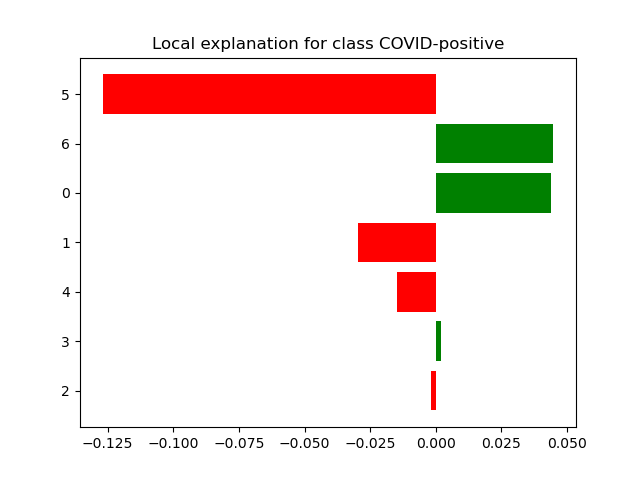
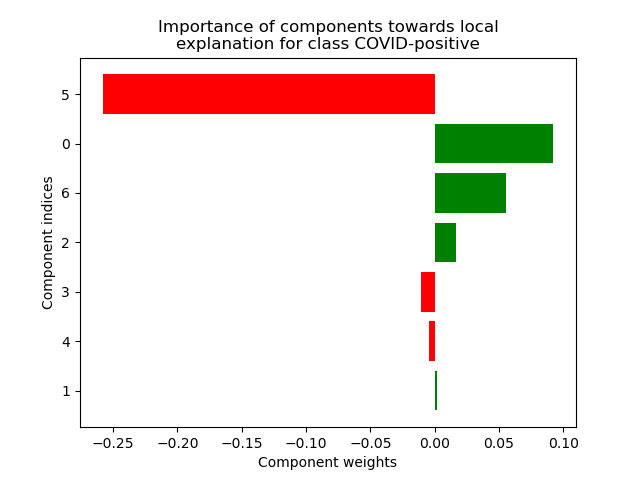
weighted spectral decomp

diff --git a/lime_cough.py b/lime_cough.py
@@ -38,6 +38,15 @@ class CoughExplanation(object):
 
     def get_exp_components(self, label, positive_components=True, negative_components=True, num_components='all',
                               min_abs_weight=0.0, return_indeces=False):
+        """
+        :param label:
+        :param positive_components:
+        :param negative_components:
+        :param num_components:
+        :param min_abs_weight:
+        :param return_indeces:
+        :return: audio that is made of the most important num_components for the explanation
+        """
         if label not in self.local_exp:
             raise KeyError('Label not in explanation')
         if positive_components is False and negative_components is False:
@@ -73,26 +82,63 @@ class CoughExplanation(object):
             return audio, used_features
         return audio
 
-    def show_image_mask_spectrogram(self, label, positive_only=True, negative_only=False, hide_rest=True, num_features=5, min_weight=0., save_path=None):
-        """Init function.
+    def weighted_audio(self, label, positive_components=True, negative_components=False, num_components='all',
+                            min_abs_weight=0.0, return_indeces=False):
+        # returns weighted audio (weighted by abs value of components)
+        if label not in self.local_exp:
+            raise KeyError('Label not in explanation')
+        if positive_components is False and negative_components is False:
+            raise ValueError('positive_components, negative_components or both must be True')
 
+        exp = self.local_exp[label]
+
+        w = [[x[0], x[1]] for x in exp]
+        used_features, weights = np.array(w, dtype=int)[:, 0], np.array(w)[:, 1] # used features is array of components, with array of weights of same length
+
+        if not negative_components:
+            pos_weights = np.argwhere(weights > 0)[:, 0]
+            used_features = used_features[pos_weights]
+            weights = weights[pos_weights]
+        elif not positive_components:
+            neg_weights = np.argwhere(weights < 0)[:, 0]
+            used_features = used_features[neg_weights]
+            weights = weights[neg_weights]
+        if min_abs_weight != 0.0:
+            abs_weights = np.argwhere(abs(weights) >= min_abs_weight)[:, 0]
+            used_features = used_features[abs_weights]
+            weights = weights[abs_weights]
+
+        if num_components == 'all':
+            num_components = len(used_features)
+        else:
+            assert(isinstance(num_components, int))
+            # max_components = used_features[:num_components]
+
+        used_features = used_features[:num_components]
+        weights = weights[:num_components]
+        audio = self.segmentation.return_weighted_segments(used_features, weights)
+        if return_indeces:
+            return audio, used_features
+        return audio
+
+
+    def show_image_mask_spectrogram(self, label, positive_only=True, negative_only=False, hide_rest=True, num_features=5, min_weight=0., save_path=None):
+        """
+        This only works for spectral decomposition!
+        # TODO: implement check if spectral decomposition is selected (probably via self.factorization.argument)
         Args:
             label: label to explain
-            positive_only: if True, only take superpixels that positively contribute to
+            positive_only: if True, only take components that positively contribute to
                 the prediction of the label.
-            negative_only: if True, only take superpixels that negatively contribute to
+            negative_only: if True, only take components that negatively contribute to
                 the prediction of the label. If false, and so is positive_only, then both
-                negativey and positively contributions will be taken.
+                negative and positive contributions will be taken.
                 Both can't be True at the same time
             hide_rest: if True, make the non-explanation part of the return
                 image gray
-            num_features: number of superpixels to include in explanation
+            num_features: number of components to include in explanation
             min_weight: minimum weight of the superpixels to include in explanation
-
-        Returns:
-            (image, mask), where image is a 3d numpy array and mask is a 2d
-            numpy array that can be used with
-            skimage.segmentation.mark_boundaries
+            save_path: path under which to save the obtained image for the explanation
         """
         if label not in self.local_exp:
             raise KeyError('Label not in explanation')
@@ -146,16 +192,19 @@ class CoughExplanation(object):
             image_array[:, :, 2] = mask_negative
             image_array[:, :, 3] = np.abs(mask)
             plt.imshow(image_array, origin="lower", interpolation="nearest", alpha=0.5)
-        plt.axis("off")
-        plt.xlabel("time")
-        plt.title("Most important components for local prediction of class COVID-positive")
+        plt.xlabel("Time")
+        plt.ylabel("Frequency")
+        ax = plt.gca()
+        ax.axes.xaxis.set_ticks([])
+        ax.axes.yaxis.set_ticks([])
+        plt.title("Most important components for local\nprediction of class COVID-positive")
         if save_path is not None:
             plt.savefig(save_path)
         plt.show()
 
     def as_pyplot_figure(self, label=0):
         """Returns the explanation as a pyplot figure.
-
+        this works for any decomposition
         Will throw an error if you don't have matplotlib installed
         Args:
             label: desired label. If you ask for a label for which an
@@ -177,7 +226,9 @@ class CoughExplanation(object):
         pos = np.arange(len(exp)) + .5
         plt.barh(pos, vals, align='center', color=colors)
         plt.yticks(pos, names)
-        title = 'Local explanation for class COVID-positive'
+        title = 'Importance of components towards local\nexplanation for class COVID-positive'
+        plt.xlabel('Component weights')
+        plt.ylabel('Component indices')
         plt.title(title)
         return fig
 

diff --git a/test_lime_cough_spectral.py b/test_lime_cough_spectral.py
@@ -153,23 +153,30 @@ def evaluate_data(components):
 
 def test_single_file():
     start = time.time()
-    audio_path = '/Users/anne/Documents/Uni/Robotics/Masterarbeit/MA_Code/DICOVA/DiCOVA_Train_Val_Data_Release/AUDIO/AtACyGlV_cough.flac'
+    filename = 'cNMOJqng_cough.flac'
+    audio_path = f'/Users/anne/Documents/Uni/Robotics/Masterarbeit/MA_Code/DICOVA/DiCOVA_Train_Val_Data_Release/AUDIO/{filename}'
     predicted_entire = predict_dicova.predict_single_audio(audio_path)
     # TODO: adapt
     audio, fs = librosa.load(audio_path)
     total_components = 7
     explanation, factorization = get_explanation(audio, fs, total_components)
-    filename = 'mel_test1234'
-    save_mix(explanation, 3, filename, factorization, fs, gen_random=False)
-    path_name = f"./quantitative_evaluation/3_components/explanations/{filename[:-5]}_e.wav"
+    new_filename = f'test_{filename}'
+    save_mix(explanation, 1, new_filename, factorization, fs, gen_random=False)
+    save_mix(explanation, 3, new_filename, factorization, fs, gen_random=False)
+    path_name = f"./quantitative_evaluation/3_components/explanations/{new_filename[:-5]}_e.wav"
     prediction_exp = predict_dicova.predict_single_audio(path_name)
     print(predicted_entire)
     print(prediction_exp)
+    weighted_audio = explanation.weighted_audio(0, positive_components=True, negative_components=True, num_components=3)
+    path_name = f"./spectral_tests/{new_filename[:-5]}_3_weighted.wav"
+    soundfile.write(path_name, weighted_audio, fs)
     figure = explanation.as_pyplot_figure()
     figure.show()
     figure.savefig('./explanation_mel.png')
-    explanation.show_image_mask_spectrogram(0, positive_only=True, negative_only=False, hide_rest=True, num_features=5, min_weight=0., save_path='./tests_components/test1_mel.png')
-    explanation.show_image_mask_spectrogram(0, positive_only=False, negative_only=False, hide_rest=False, num_features=5, min_weight=0., save_path='./tests_components/test2_mel.png')
+    # explanation.show_image_mask_spectrogram(0, positive_only=True, negative_only=False, hide_rest=True, num_features=3, min_weight=0., save_path='./tests_components/mel_pos_hide.png')
+    # explanation.show_image_mask_spectrogram(0, positive_only=False, negative_only=False, hide_rest=True, num_features=3, min_weight=0., save_path='./tests_components/mel_both_hide.png')
+    # explanation.show_image_mask_spectrogram(0, positive_only=True, negative_only=False, hide_rest=False, num_features=3, min_weight=0., save_path='./tests_components/mel_pos_show.png')
+    # explanation.show_image_mask_spectrogram(0, positive_only=False, negative_only=False, hide_rest=False, num_features=3, min_weight=0., save_path='./tests_components/mel_both_show.png')
     end = time.time()
     print("time elapsed for mel:", end - start)
 

diff --git a/tests_components/librosa_test.py b/tests_components/librosa_test.py
@@ -93,9 +93,41 @@ def test_mfcc():
     pass
 
 
+def check_inverse_quality():
+    filename = 'AtACyGlV_cough.flac'
+    audio_path = f'/Users/anne/Documents/Uni/Robotics/Masterarbeit/MA_Code/DICOVA/DiCOVA_Train_Val_Data_Release/AUDIO/{filename}'
+    audio, sample_rate = librosa.load(audio_path)
+    # spectrogram
+    start = time.time()
+    spectrogram = librosa.feature.melspectrogram(y=audio, sr=sample_rate)
+    end = time.time()
+    print("time spec extraction", end - start)
+    start = time.time()
+    reconstructed_audio_mel = librosa.feature.inverse.mel_to_audio(spectrogram, n_iter=8 , sr=sample_rate)
+    end = time.time()
+    print("Elapsed time spectrogram reconstruction: ", end - start)
+    start = time.time()
+    mfcc = librosa.feature.mfcc(y=audio, sr=sample_rate)
+    print("time mfcc extraction", end - start)
+    start = time.time()
+    reconstructed_audio_mfcc = librosa.feature.inverse.mfcc_to_audio(mfcc=mfcc, sr=sample_rate)
+    end = time.time()
+    print("Elapsed time mfcc reconstruction: ", end - start)
+    norm_l1_mel = np.linalg.norm((audio[:113664] - reconstructed_audio_mel), ord=1)
+    norm_l2_mel = np.linalg.norm((audio[:113664] - reconstructed_audio_mel))
+    norm_l1_mfcc = np.linalg.norm((audio[:113664] - reconstructed_audio_mfcc), ord=1)
+    norm_l2_mfcc = np.linalg.norm((audio[:113664] - reconstructed_audio_mfcc))
+    print("L1 norm audio - reconstructed audio from mel features:", norm_l1_mel)
+    print("L1 norm audio - reconstructed audio from mfcc features:", norm_l1_mfcc)
+    print("L2 norm audio - reconstructed audio from mel features:", norm_l2_mel)
+    print("L2 norm audio - reconstructed audio from mfcc features:", norm_l2_mfcc)
+    print('done :) ')
+
+
 if __name__ == "__main__":
     # test_lime_image()
     # test_audio()
     # test_spectral_decomposition()
-    test_mfcc()
-    compare_inverses()
+    #test_mfcc()
+    #compare_inverses()
+    check_inverse_quality()

diff --git a/spectral_segmentation.py b/spectral_segmentation.py
@@ -43,8 +43,6 @@ class SpectralSegmentation(object):
     def get_segments_mask(self, mask):
         # mask: array of false and true, length of num_segments
         # get segments for true and fudged for false
-        # sum(arr1[mask, :, :])
-        # retransform to audio with librosa         reconstructed_audio = librosa.feature.inverse.mel_to_audio(spectrogram, sr=sample_rate)
         if len(mask) != self.num_segments:
             print('Error: mask has incorrect length')
         mask = np.array(mask)
@@ -88,3 +86,22 @@ class SpectralSegmentation(object):
                 mask[((self.num_segments-1)*len_component+1):-1, 1:-1] = -1
 
         return mask
+
+    def return_weighted_segments(self, used_features, weights):
+        """
+        used_features: array of indices of features to include. weights: array of their corresponding weights
+        weights[i] is weight of feature[i]
+        """
+        # normalize weights
+        sum_weights = np.sum(np.abs(weights))
+        weights = weights / sum_weights
+        mask_weights = np.zeros((self.num_segments,))
+        # make weighted sum
+        for index, feature in enumerate(used_features):
+            mask_weights[feature] = weights[index]
+        weighted_spectrogram = np.zeros(np.shape(self.segments[0, :, :]))
+        for comp in range(self.num_segments):
+            if mask_weights[comp] != 0:
+                weighted_spectrogram += abs(mask_weights[comp]) * self.segments[comp, :, :]
+        reconstructed_audio = librosa.feature.inverse.mel_to_audio(weighted_spectrogram, sr=self.sample_rate)
+        return reconstructed_audio

diff --git a/make_graphs_evaluation.py b/make_graphs_evaluation.py
@@ -19,7 +19,7 @@ def make_graph(comps, values, save_path):
         plt.plot(c, values[1, index], 'bo')
     plt.plot(comps, values[0, :], 'r', label='Explanations')
     plt.plot(comps, values[1, :], 'b', label='Random components')
-    plt.title("Spectral decomposition: correct percentage per k out of 7 components")  # TODO: adapt
+    plt.title("MFCC Direct: correct percentage per k out of 7 components")  # TODO: adapt
     plt.xticks(comps)
 
     plt.xlabel("Number of components")
@@ -31,7 +31,7 @@ def make_graph(comps, values, save_path):
 
 if __name__ == "__main__":
     components = [1, 3, 5, 7]
-    path_text_files = '/Users/anne/PycharmProjects/LIME_cough/old_eval/quantitative_evaluation_spectral/'  # TODO: adapt
+    path_text_files = '/Users/anne/PycharmProjects/LIME_cough/old_eval/quantitative_evaluation_mfcc_direct/'  # TODO: adapt
     percentages = np.zeros((2, len(components)))
     for i, comp in enumerate(components):
         summary_path = f"{path_text_files}/{comp}_components.txt"

diff --git a/tests_components/opensmile_test.py b/tests_components/opensmile_test.py
@@ -4,9 +4,7 @@ import soundfile
 from pathlib import Path
 
 
-def test_feature_extraction():
-    # convert to wav
-    filename = "JgEUgPGO_cough.flac"
+def convert_file(filename):
     file_path = f"/Users/anne/Documents/Uni/Robotics/Masterarbeit/MA_Code/DICOVA/DiCOVA_Train_Val_Data_Release/AUDIO/{filename}"
     audio, sr = librosa.load(file_path)
     new_directory = "./converted_files"
@@ -14,6 +12,13 @@ def test_feature_extraction():
     path_converted_file = f"{new_directory}/{filename[:-5]}.wav"
     soundfile.write(path_converted_file, audio, sr)
 
+
+def test_feature_extraction():
+    # convert to wav
+    filename = "JgEUgPGO_cough.flac"
+    # convert_file(filename)
+    new_directory = "./converted_files"
+    path_converted_file = f"{new_directory}/{filename[:-5]}.wav"
     smile = opensmile.Smile(
         feature_set=opensmile.FeatureSet.ComParE_2016,
         feature_level=opensmile.FeatureLevel.Functionals,

diff --git a/tests_components/test_mark_boundaries.py b/tests_components/test_mark_boundaries.py
@@ -34,5 +34,11 @@ if __name__ == "__main__":
     image_array[:, :, 3] = np.abs(mask)
     plt.imshow(image_array, origin="lower", interpolation="nearest", alpha=0.5)  # set opacity with alpha value
     plt.savefig("./spec.png")
+    plt.xlabel("Time")
+    plt.ylabel("Frequency'")
+    ax = plt.gca()
+    ax.axes.xaxis.set_ticks([])
+    ax.axes.yaxis.set_ticks([])
+    plt.title("Most important components for local\nprediction of class COVID-positive")
     plt.show()
     print("done")
